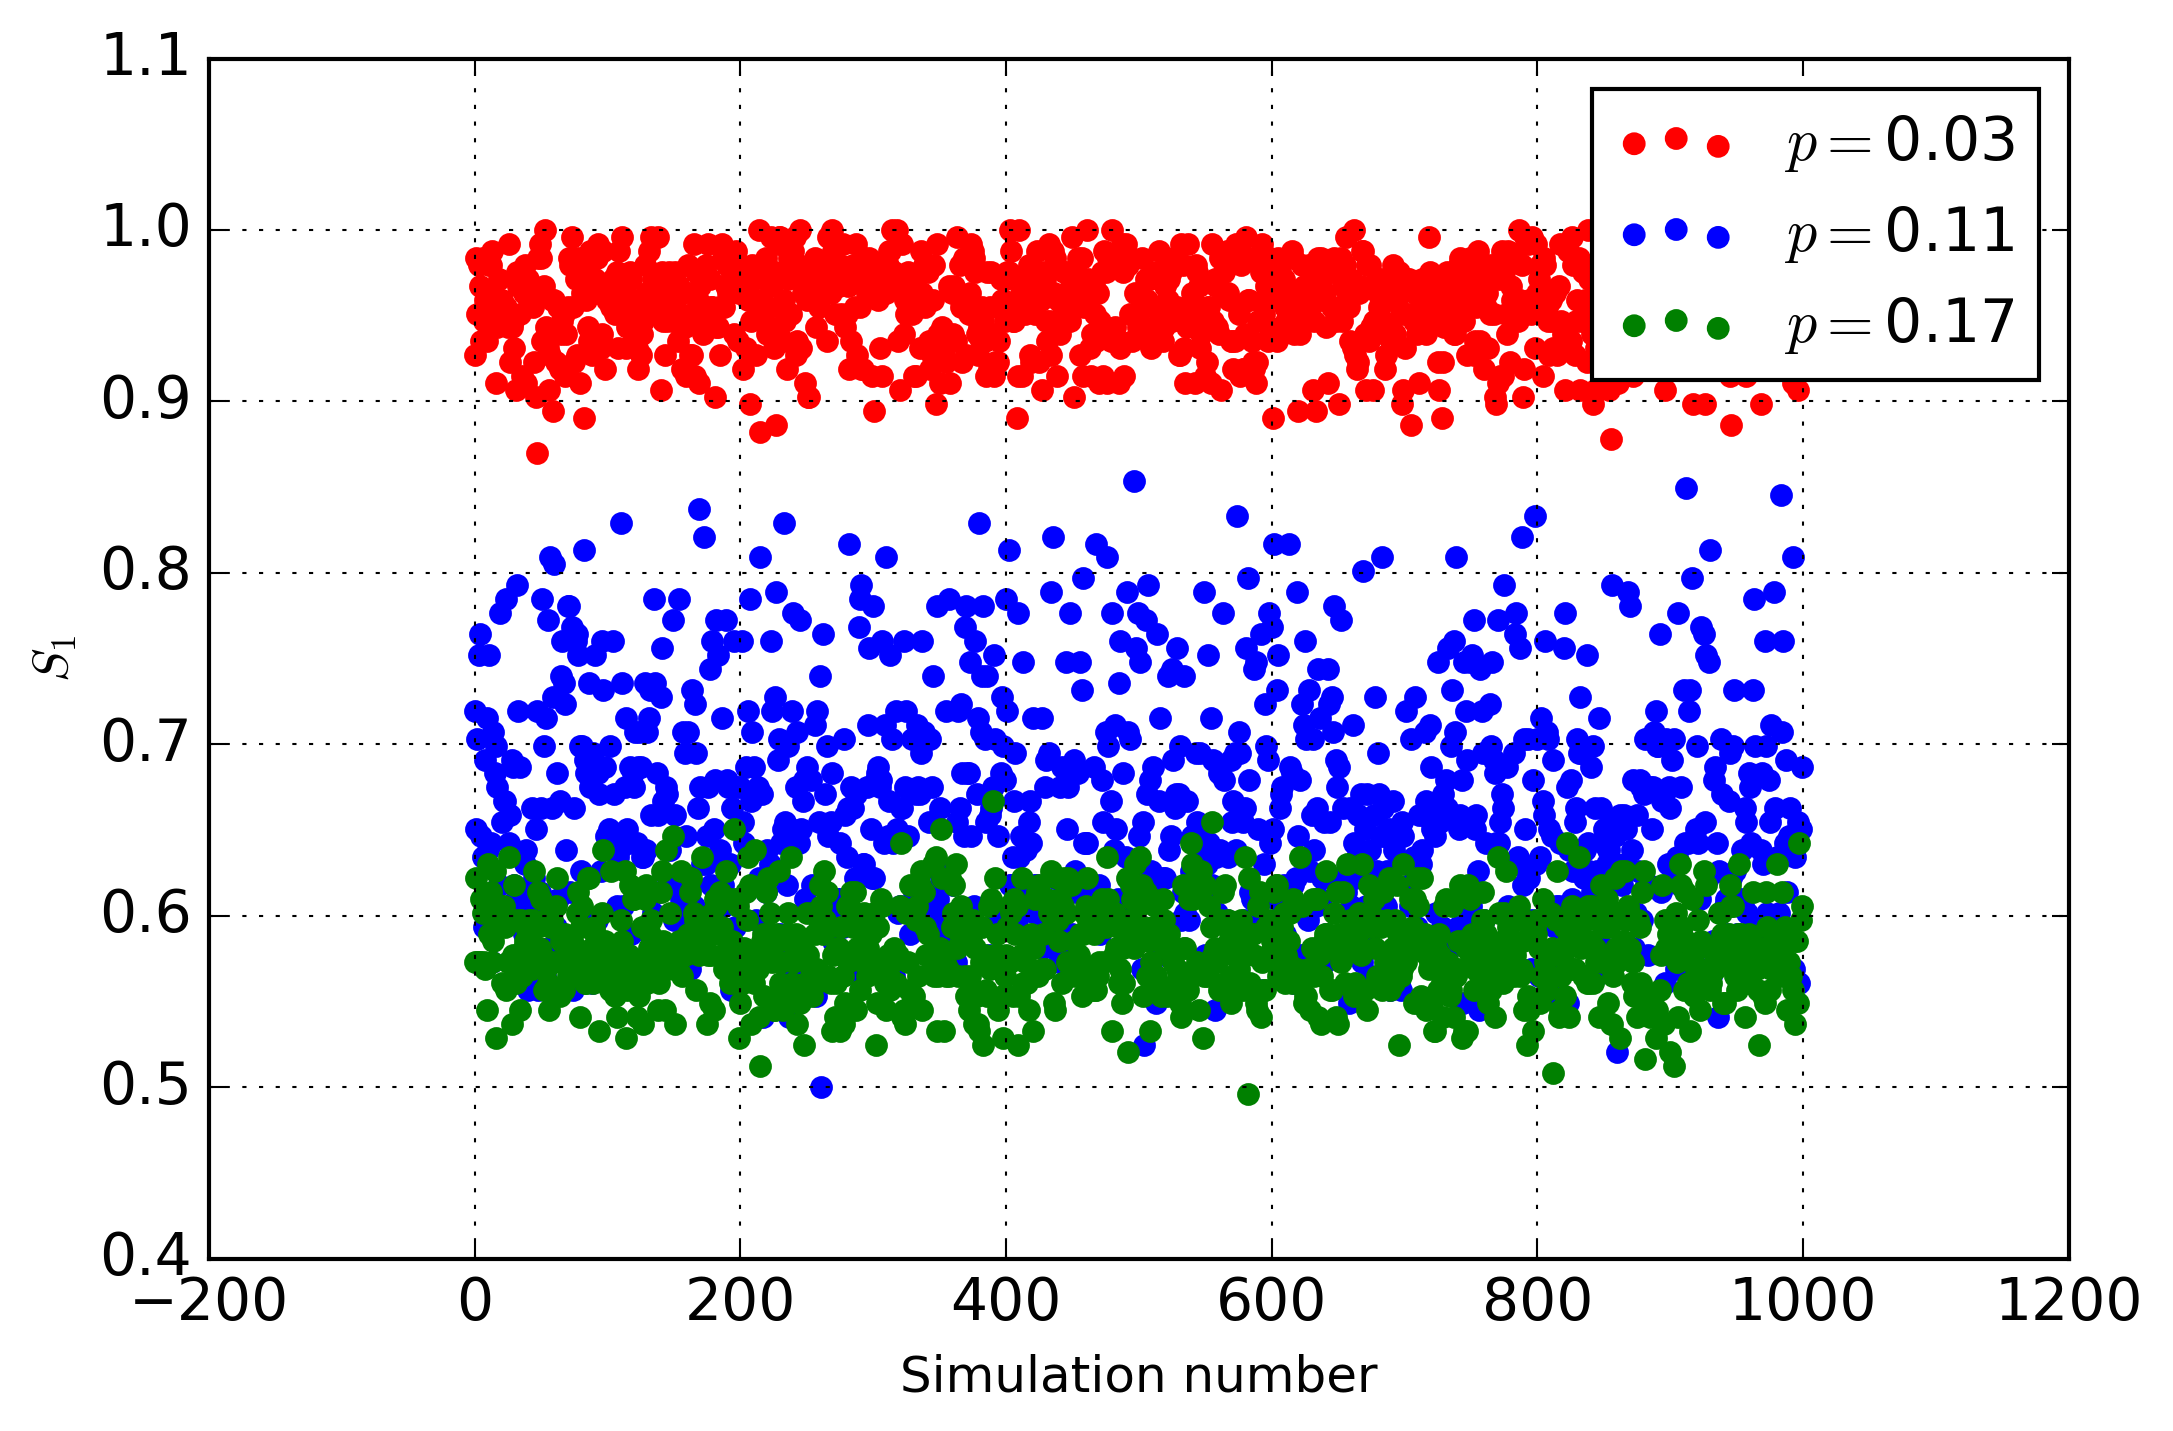
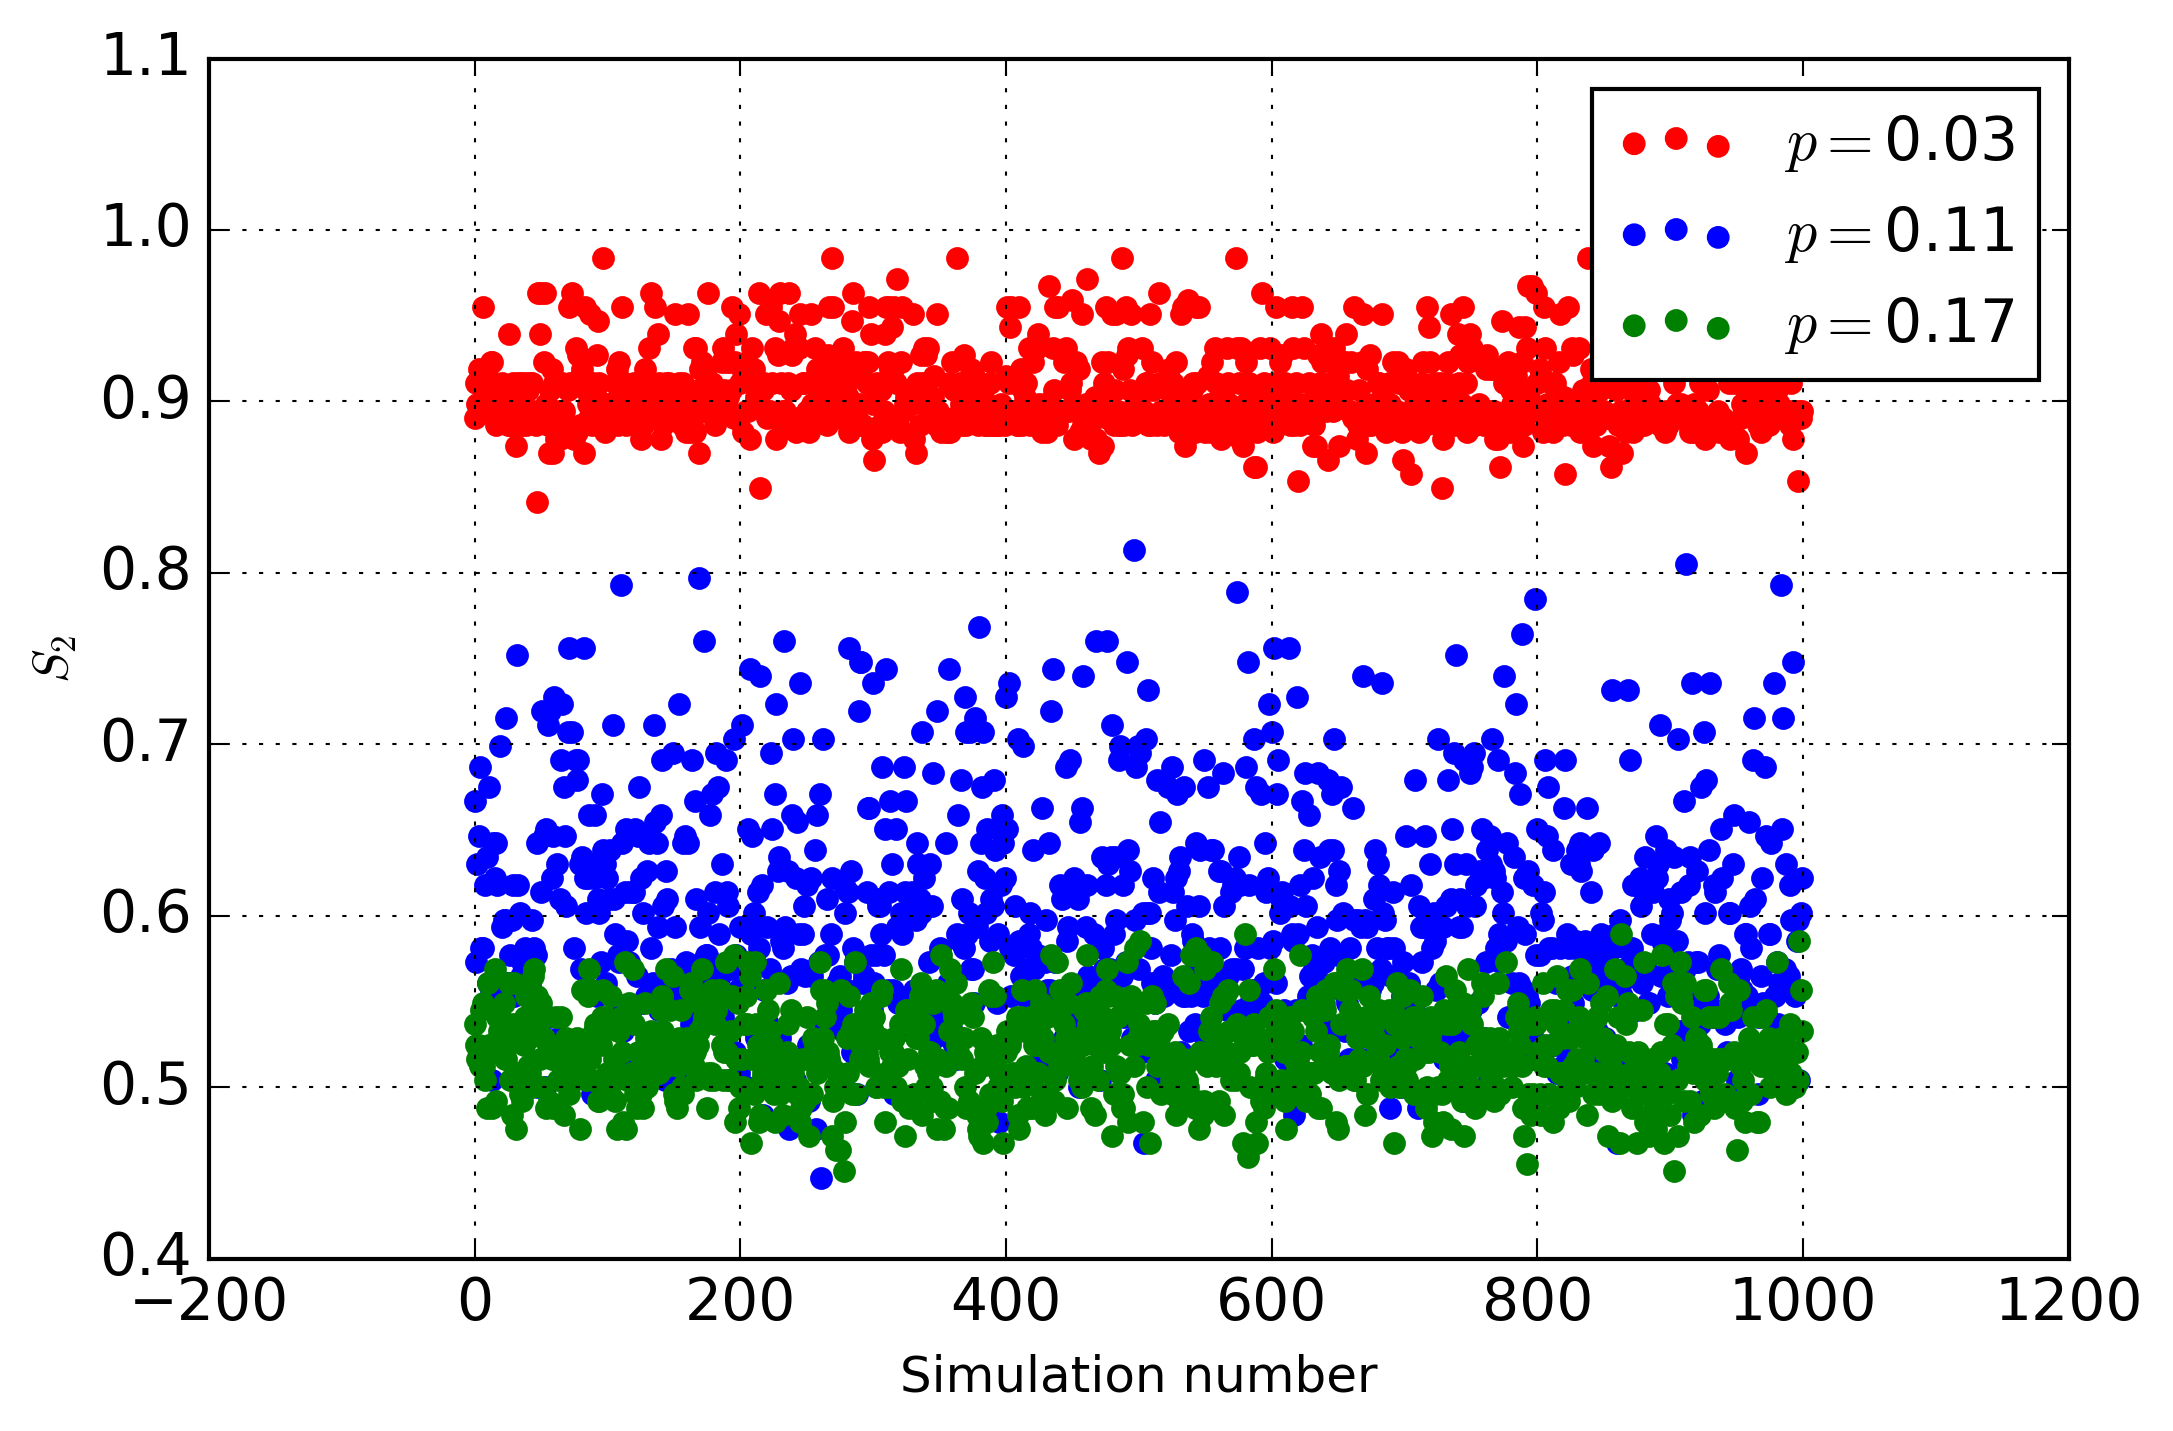
daily-autogit

Changed region(s): [[0.2158, 0.1537, 0.8325, 0.8302], [0.4317, 0.3382, 0.4625, 0.369]]

diff --git a/Polar-slepian/V_26/thetafinder.py b/Polar-slepian/V_26/thetafinder.py
@@ -41,7 +41,7 @@ plt.rc('figure', figsize=[8,5])
 #llrdict
 #./simresults/llrsgndict-512-0p03-18-05-10_12-50-13.txt
 #./simresults/llrsgndict-512-0p11-18-05-10_12-50-57.txt
-filename="./simresults/llrsgndict-512-0p11-18-05-10_12-50-57.txt"
+filename="./simresults/llrsgndict-512-0p03-18-05-10_12-50-13.txt"
 
 
 
@@ -53,7 +53,7 @@ channel_plist=LLRdict.keys()
 channel_plist.sort()
 design_p=min(channel_plist)
 print channel_plist
-G=123
+G=246
 
 #------------------------------------LT
 #G=250
@@ -66,7 +66,7 @@ G=123
 #~ E_forTakeClose=list(E[channel_plist[0]])
 #~ E_forTakeClose.sort()
 #~ print ml.takeClosest(E_forTakeClose,LT)
-LT=30
+LT=40
 PT=80
 print LT
 #absllr
